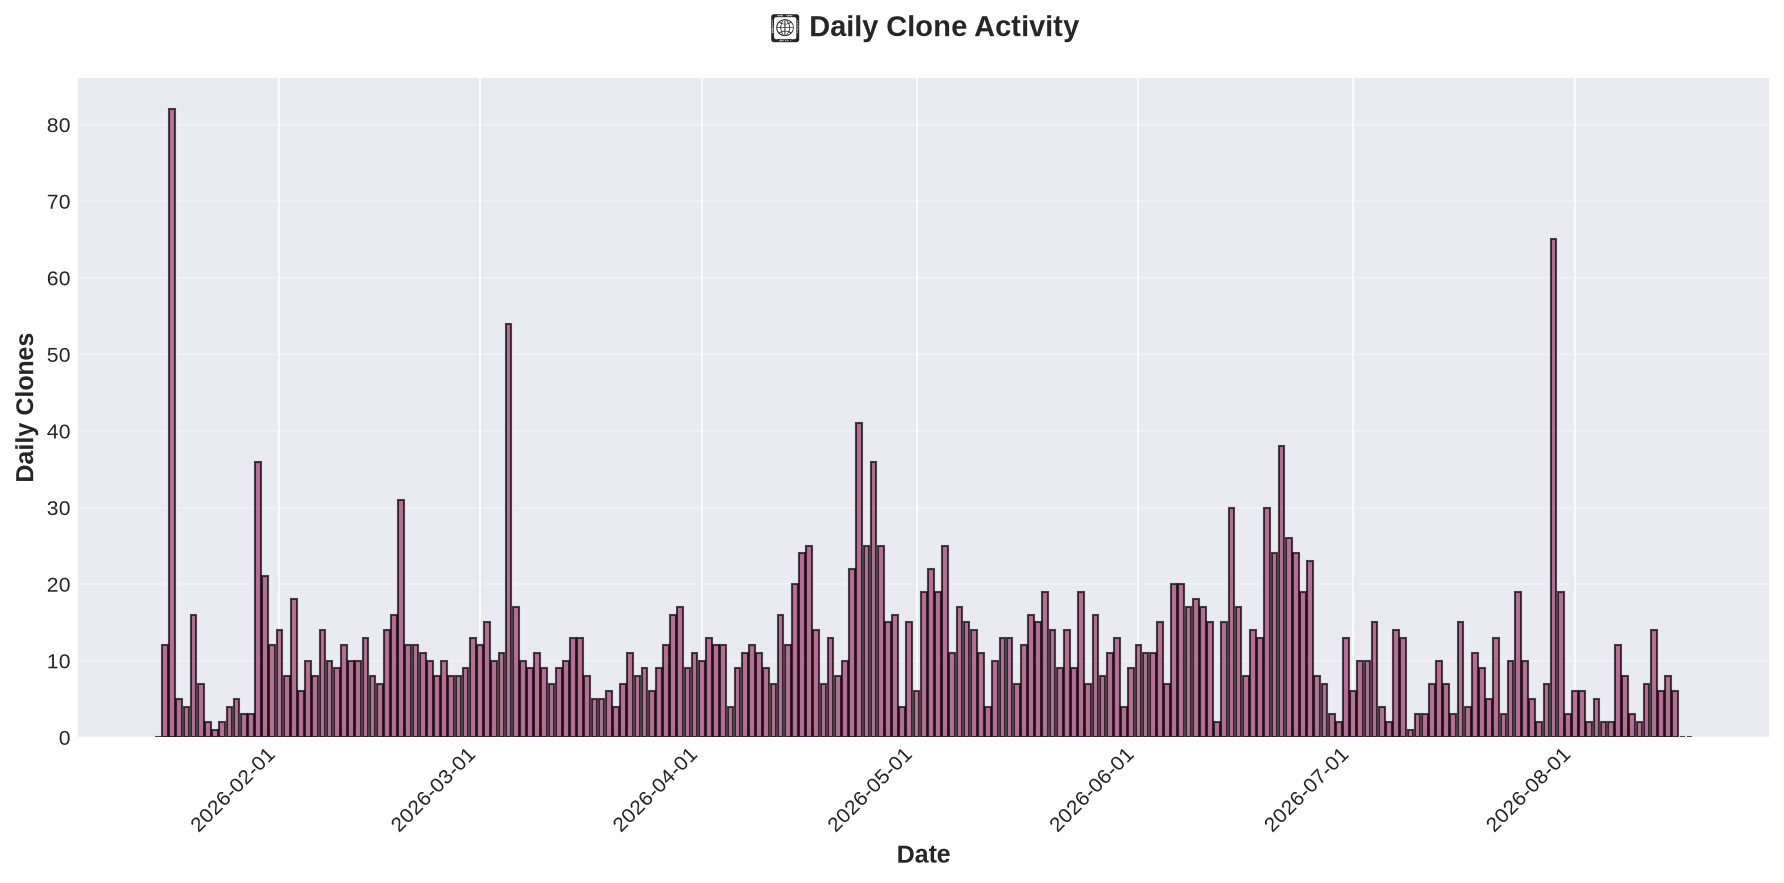
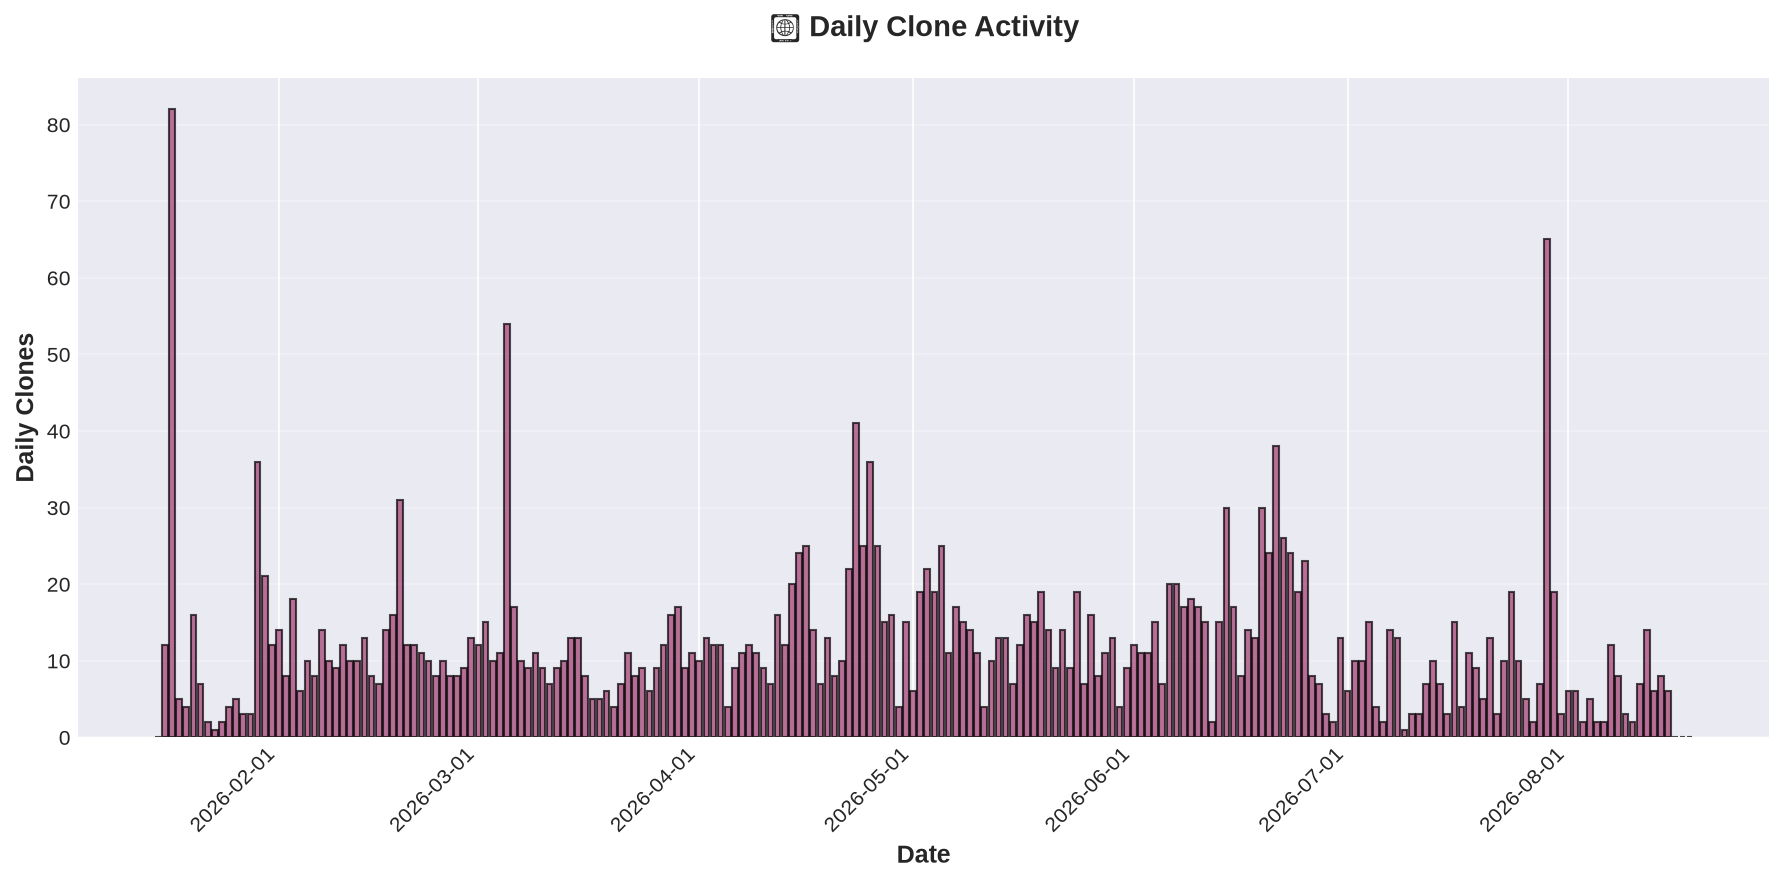
📊 Update clone statistics - 2026-08-18

diff --git a/graphs/STATS_SUMMARY.md b/graphs/STATS_SUMMARY.md
@@ -1,10 +1,10 @@
 # 📊 Clone Statistics Summary
-**Last Updated:** 2026-08-17T01:15:52.428518
+**Last Updated:** 2026-08-18T01:13:12.122340
 
 ## Overall Statistics
 - **Total Clones (All Time):** 2,622
-- **Days Tracked:** 215
-- **Average Daily Clones:** 12.2
+- **Days Tracked:** 216
+- **Average Daily Clones:** 12.1
 
 ## Repository Statistics
 - **Repositories Tracked:** 15
